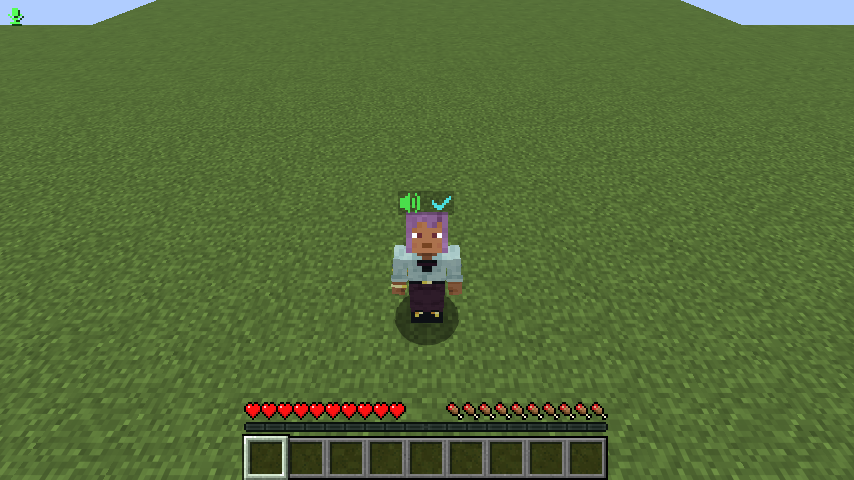
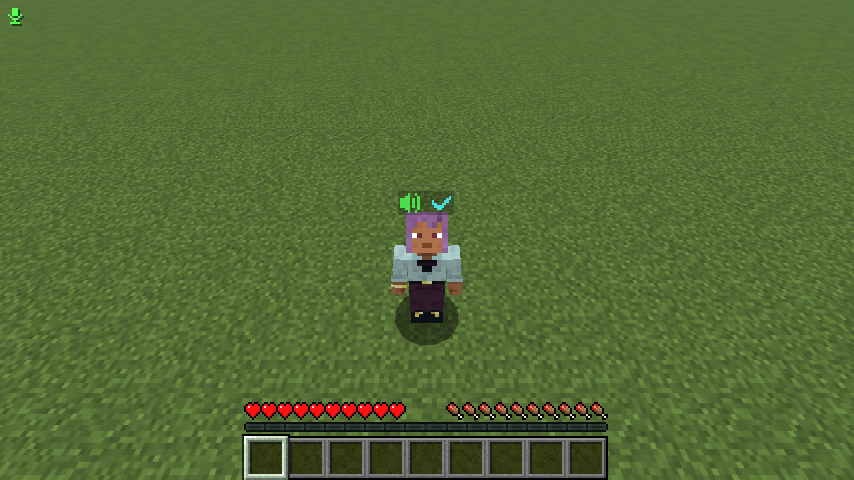
Wait for chunks before the talking-indicator screenshot
Chunk sections compile for the view they are in, so after the camera
moved to third person the horizon depended on timing and the guide
image changed on every run. Two runs now give the same image.

The Mod Menu screenshot catches up with the description from #158.

Changed region(s): [[0.7916, 0.0, 1.0, 0.0625], [0.0, 0.0, 0.1827, 0.0625]]

diff --git a/mod/src/gametest/java/io/github/desocketed/yakvc/gametest/YakVcClientGameTest.java b/mod/src/gametest/java/io/github/desocketed/yakvc/gametest/YakVcClientGameTest.java
@@ -111,11 +111,14 @@ public class YakVcClientGameTest implements FabricClientGameTest {
 			context.waitFor(mc -> feeder.talking().contains(me));
 			hudScreenshot(context, "hud-talking");
 			// In third person the speaker shows over the player's own head. Looking up puts the camera above,
-			// looking down at grass only: how far the terrain reaches depends on how many chunks have loaded.
+			// looking down at grass only.
 			context.runOnClient(mc -> {
 				mc.player.setXRot(-45);
 				mc.options.setCameraType(CameraType.THIRD_PERSON_FRONT);
 			});
+			// Chunks compile for the view they are in, so the new view needs its own wait or the horizon
+			// differs from run to run.
+			singleplayer.getConnection().waitForChunksRender();
 			context.waitTicks(2);
 			// The arms sway with the player's age in ticks.
 			context.runOnClient(mc -> mc.player.tickCount = 0);
